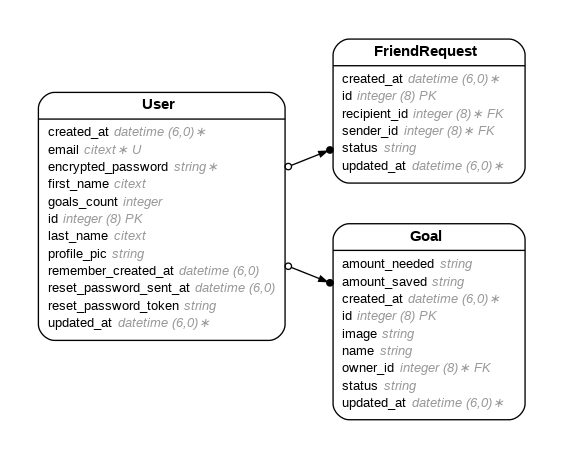
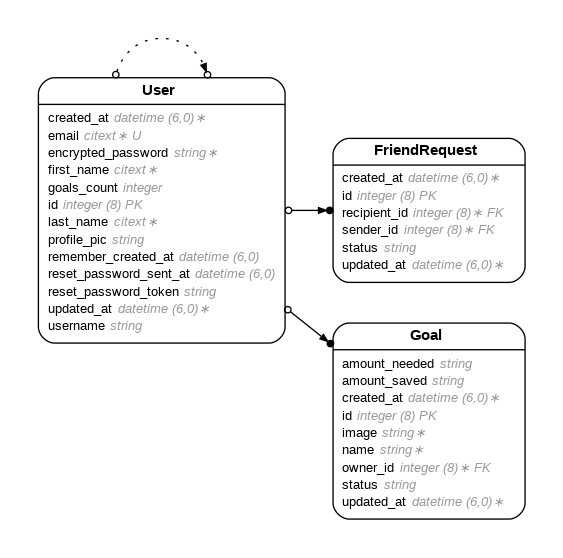
corrige

Changed region(s): [[0.0604, 0.061, 0.9361, 0.9455]]

diff --git a/app/models/user.rb b/app/models/user.rb
@@ -12,6 +12,7 @@
 #  remember_created_at    :datetime
 #  reset_password_sent_at :datetime
 #  reset_password_token   :string
+#  username               :string
 #  created_at             :datetime         not null
 #  updated_at             :datetime         not null
 #
@@ -28,10 +29,10 @@ class User < ApplicationRecord
 
   has_many :own_goals, foreign_key: "owner_id", class_name: "Goal"
   has_many :sent_friend_requests, foreign_key: :sender_id, class_name: "FriendRequest"
-  has_many :accepted_sent_friend_requests, -> { accepted }, foreign_key: :sender_id, class_name: "FriendRequest"
+  has_many :accepted_sent_friend_requests, -> { where(status: "accepted") }, foreign_key: :sender_id, class_name: "FriendRequest"
 
   has_many :received_friend_requests, foreign_key: :recipient_id, class_name: "FriendRequest"
-  has_many :accepted_received_friend_requests, -> { accepted }, foreign_key: :recipient_id, class_name: "FriendRequest"
+  has_many :accepted_received_friend_requests, -> { where(status: "accepted") }, foreign_key: :recipient_id, class_name: "FriendRequest"
 
   has_many :leaders, through: :accepted_sent_friend_requests, source: :recipient
   has_many :followers, through: :accepted_received_friend_requests, source: :sender

diff --git a/db/schema.rb b/db/schema.rb
@@ -10,7 +10,7 @@
 #
 # It's strongly recommended that you check this file into your version control system.
 
-ActiveRecord::Schema[8.0].define(version: 2025_04_24_192557) do
+ActiveRecord::Schema[8.0].define(version: 2025_04_24_215242) do
   # These are extensions that must be enabled in order to support this database
   enable_extension "citext"
   enable_extension "pg_catalog.plpgsql"
@@ -191,6 +191,7 @@ ActiveRecord::Schema[8.0].define(version: 2025_04_24_192557) do
     t.datetime "created_at", null: false
     t.datetime "updated_at", null: false
     t.integer "goals_count", default: 0
+    t.string "username"
     t.index ["email"], name: "index_users_on_email", unique: true
     t.index ["reset_password_token"], name: "index_users_on_reset_password_token", unique: true
   end

diff --git a/spec/models/user_spec.rb b/spec/models/user_spec.rb
@@ -12,6 +12,7 @@
 #  remember_created_at    :datetime
 #  reset_password_sent_at :datetime
 #  reset_password_token   :string
+#  username               :string
 #  created_at             :datetime         not null
 #  updated_at             :datetime         not null
 #

diff --git a/app/models/friend_request.rb b/app/models/friend_request.rb
@@ -22,6 +22,4 @@
 class FriendRequest < ApplicationRecord
   belongs_to :recipient, class_name: "User"
   belongs_to :sender, class_name: "User"
-
-  emu :status, { pending: "pending", rejected: "rejected", accepted: "accepted" }
 end
